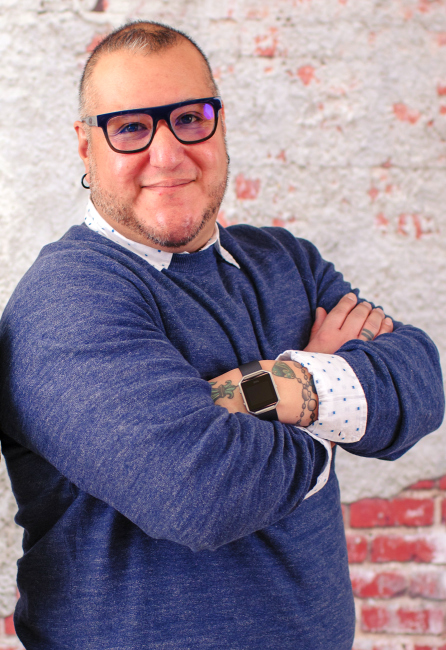
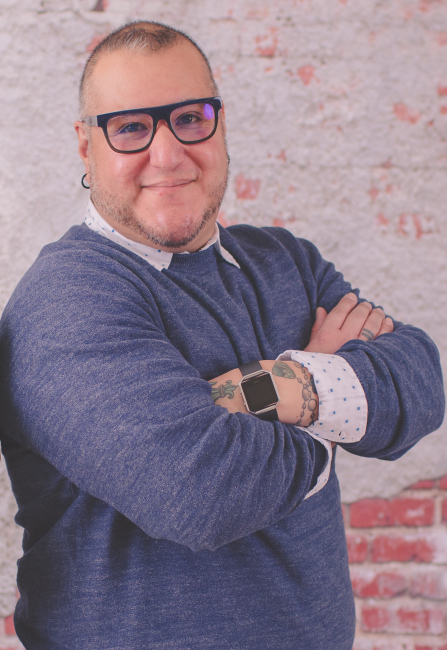
fix text & image formatting for small displays; better image of Tone

diff --git a/index.html b/index.html
@@ -69,8 +69,8 @@
     <div class="mt-4" id="whoWeAre">
       <h1 class="title-text text-center">Who We Are</h1>
       <div class="clearfix">
+        <img src="tone.jpg" class="img-inline float-sm-right ml-sm-2 mx-auto d-block">
         <p>
-          <img src="tone.jpg" class="img-inline float-right ml-2">
           With a keen eye for eyewear fashion and over 24 years of optical experience, I am excited to have founded Framed by Tone, LLC - “your redefined eyewear concierge”.
           Coupled with my approach to designing and curating exclusive collections, I take joy and pride when clients feel drawn with confidence that they will receive world class service and I excel in meeting their needs.
           Finding that perfect piece of ART to compliment their unique personality, keeping them fashionably ahead of the curve, and see them glow with confidence and pride.
@@ -96,8 +96,8 @@
       <h5 class="mt-3" id="zenBarcelona"><strong>ZEN BARCELONA</strong></h5>
       <em>“frames that define you”</em>
       <div class="clearfix">
+        <img src="zen-blue-red.jpg" class="img-inline float-sm-right ml-sm-2 mx-auto d-block">
         <p>
-          <img src="zen-blue-red.jpg" class="img-inline float-right ml-2">
           The brand was born in 2005 in Barcelona and the city is in its DNA. Full of contrasts in perfect balance, home to historic buildings and avant-garde architecture,
           Barcelona has inspired every one of our shapes and innovative colours.
         </p>
@@ -109,16 +109,16 @@
       </div>
       <h5 class="mt-3" id="ovvoOptics"><strong>OVVO Optics</strong></h5>
       <div class="clearfix">
+        <img src="ovvo-shadow.jpg" class="img-inline float-sm-left mr-sm-2 mx-auto d-block">
         <p>
-          <img src="ovvo-shadow.jpg" class="img-inline float-left mr-2">
           OVVO has been present in the U.S. since March 2011. Its history, however, goes back to Europe of the Cold War era. That’s when a group of scientists,
           who were working on developing a material for spacecraft and military use, fused surgical steel and titanium, achieving an exceptionally light,
           durable and flexible material that is also hypoallergenic. Inspired by its remarkable qualities,
           in 1980 the engineers of the company started using this unique composite to make frames for glasses.
           They are handmade, but manufactured with outstanding precision, mastered by over 30 years of experience. Entirely produced in Germany and Poland,
           OVVO frames bring exquisite European style and unmatched quality.
-          <img src="ovvo-fall-gent.jpg" class="img-inline float-right ml-2">
         </p>
+        <img src="ovvo-fall-gent.jpg" class="img-inline float-sm-right ml-sm-2 mx-auto d-block">
         <p>
           Weighing barely 0.6 ounces, OVVO frames offer unparalleled comfort and unfailing durability.
           Tests showed that stretched flat frames can hold up to 90 pounds without breaking or wrecking.
@@ -138,8 +138,8 @@
       </div>
       <h5 class="mt-3" id="carolineAbramParis"><strong>CAROLINE ABRAM PARIS</strong></h5>
       <div class="clearfix">
+        <img src="caroline-marble.jpg" class="img-inline float-sm-left mr-sm-2 mx-auto d-block">
         <p>
-          <img src="caroline-marble.jpg" class="img-inline float-left mr-2">
           Optician, trained during several years in designer oriented stores, Caroline Abram started in 1998 designing jewels and accessories for the eyewear market:
           Lorgnettes, magnifying glasses, chains etc... It is reviving the not well known object called the lorgnette, that she quickly met an international success.
         </p>
@@ -150,8 +150,8 @@
           Rewarded by two gold Silmo awards, the Filao company opened its workshops of craft manufacturing in Dakar where Caroline spent her childhood.
           She trained a women's team there, which have been manufacturing for 15 years, all her accessory lines.
           Caroline Abram uses diverse materials such as resin, the silver, wood, semiprecious stone...
-          <img src="caroline-orange-bag.jpg" class="img-inline float-right ml-2">
         </p>
+        <img src="caroline-orange-bag.jpg" class="img-inline float-sm-right ml-sm-2 mx-auto d-block">
         <p>
           During her journeys she discovers the charms of Florida and in 2008, she launched her own line of glasses reminding her of the old-fashioned charm of Miami.
           Sixties and vintage, South Beach inspired Caroline: the cat-eyes, colors, extreme femininity.
